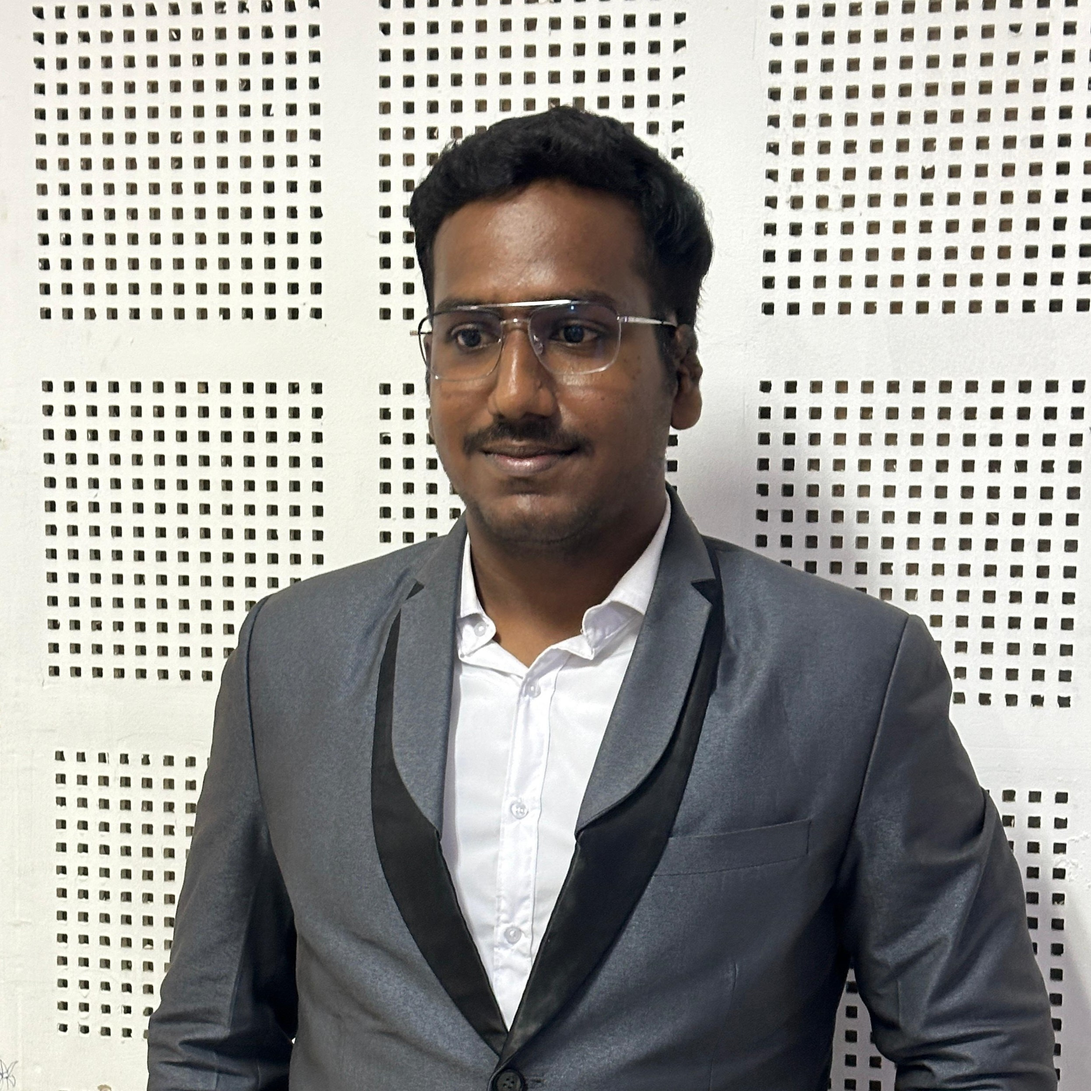
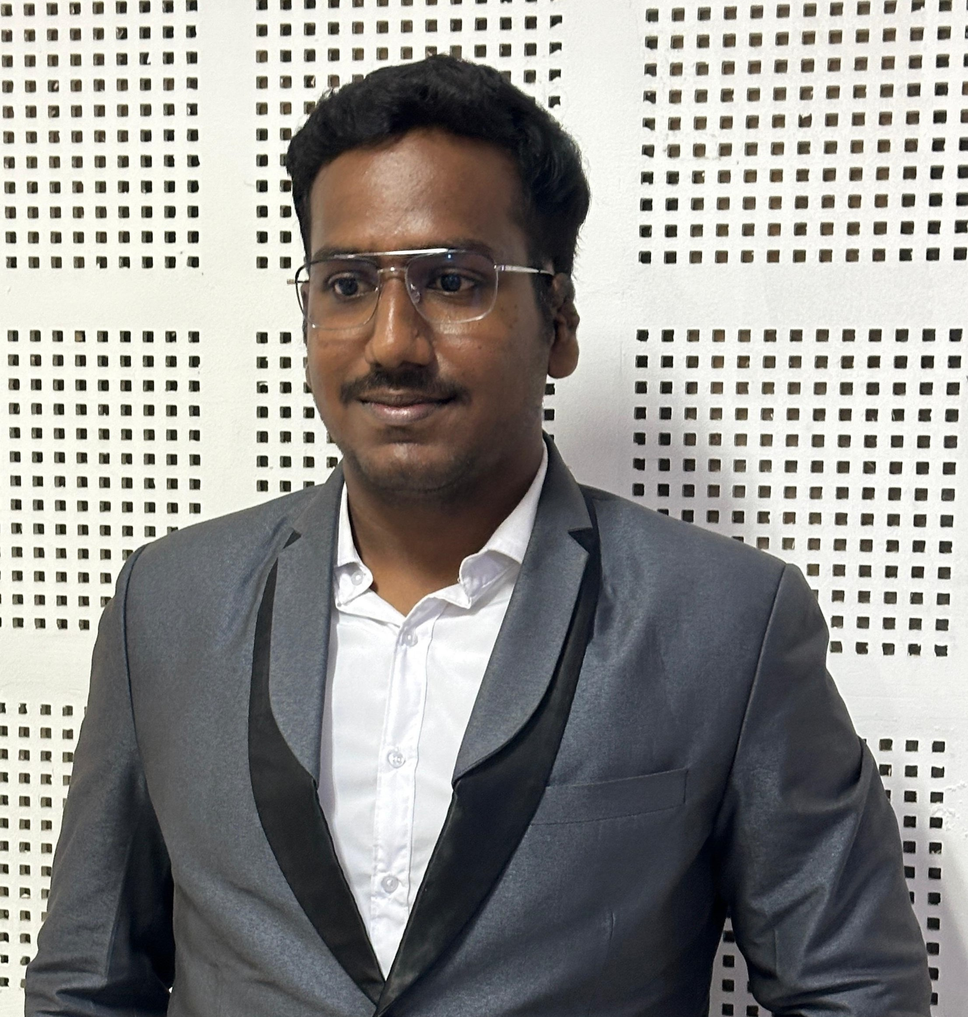
bug fixes

diff --git a/src/Components/BlurCard/BlurCard.jsx b/src/Components/BlurCard/BlurCard.jsx
@@ -1,7 +1,8 @@
 import React from 'react';
 import Card from 'react-bootstrap/Card';
 
-// import { Parallax } from 'react-scroll-parallax';
+
+import { Parallax } from 'react-scroll-parallax';
 import "./BlurCard.css"
 
 function BlurCard(props) {
@@ -9,7 +10,9 @@ function BlurCard(props) {
     // <Parallax translateX={[-200, 200]} tagOuter="figure" className="blur-card">
     <div className="blur-card">
       <Card.Body className='card-body'>
+        <Parallax scale={[1.2, 0.8]} >
           <img src={props.image} alt={props.title} id="card-image"/>
+        </Parallax> 
         <Card.Title className='card-title'>{props.title}</Card.Title>
       </Card.Body>
     </div>

diff --git a/src/Components/TeamSection/TeamSection.jsx b/src/Components/TeamSection/TeamSection.jsx
@@ -5,11 +5,11 @@ import SectionHeader from '../SectionHeader/SectionHeader';
 
 import "./TeamSection.css"
 
-import Jeswin from "../../assets/img/jeswin.jpg"
+import Jeswin from "../../assets/img/jeswin1.jpg"
 import Porselvan from "../../assets/img/porselvan.jpg"
-import Sakkthivel from "../../assets/img/sakkthi.jpg"
-import Madhav from "../../assets/img/madhav.jpeg"
-import Rishab from "../../assets/img/rishab.jpg"
+import Sakkthivel from "../../assets/img/sakkthivel.jpg"
+import Madhav from "../../assets/img/madhav1.jpg"
+import Rishab from "../../assets/img/rishab2.jpg"
 import TeamCard from '../TeamCard/TeamCard';
 
 function TeamSection() {

diff --git a/src/Components/IntroSection/IntroSection.jsx b/src/Components/IntroSection/IntroSection.jsx
@@ -31,7 +31,8 @@ function IntroSection() {
             
             
             <Col lg={6} style={{ display: "flex", alignItems: "Center", justifyContent: "center" }}>
-            <Parallax translateX={['280px', '0px']}>
+            {/* <Parallax translateX={['100px', '0px']}> */}
+            <Parallax scale={[1.3, 1]} >
               <img src={Logo} className='logo-image' alt=""/>
               </Parallax> 
             </Col>

diff --git a/src/Components/Benefits/Benefits.jsx b/src/Components/Benefits/Benefits.jsx
@@ -27,10 +27,11 @@ function Benefits() {
       window.removeEventListener('scroll', handleScroll);
     };
   }, []);
+  
   return (
     <Container id='Activities' fluid className='benefits-section'>
         
-      <SectionHeader header = "Opportunities"  scrollPosition={scrollPosition}/>
+      <SectionHeader header = "Prospects"  scrollPosition={scrollPosition}/>
 
       <Row className="benefits-row">
         

diff --git a/src/Components/SectionHeader/SectionHeader.jsx b/src/Components/SectionHeader/SectionHeader.jsx
@@ -18,7 +18,6 @@ function SectionHeader(props) {
     <div className="section-header">
     <h2
       ref={parallax.ref}
-      className="text-stroke"
       style={{ letterSpacing: `calc(20px * var(--progress))` }}
     >
       {props.header}

diff --git a/src/Components/Hero/HeroStyles.css b/src/Components/Hero/HeroStyles.css
@@ -41,7 +41,6 @@ h1 {
 .hero-content {
   text-align: center;
   font-family: "Raleway", sans-serif;
-  position: relative; /* Add this line */
 }
 
 .clouds-container {

diff --git a/src/Components/NavBar/NavBarStyles.css b/src/Components/NavBar/NavBarStyles.css
@@ -13,7 +13,7 @@
     justify-content: space-between;
     align-items: center;
     padding: 10px 20px;
-    z-index: 9;
+    z-index: 999;
 }
 
 
